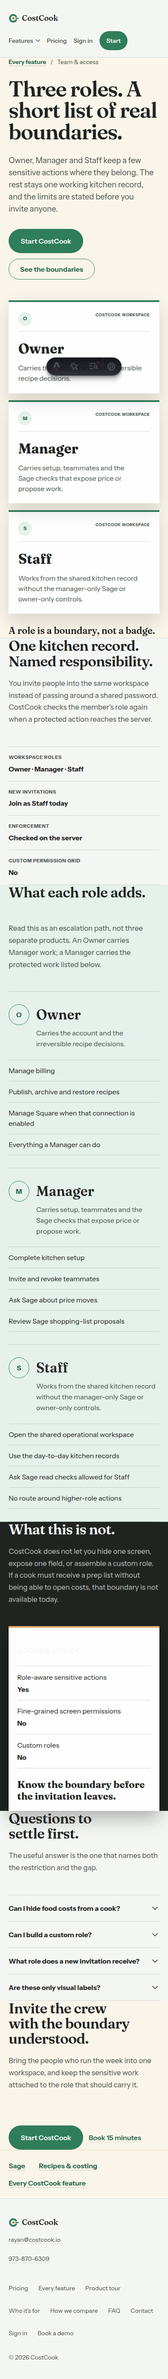
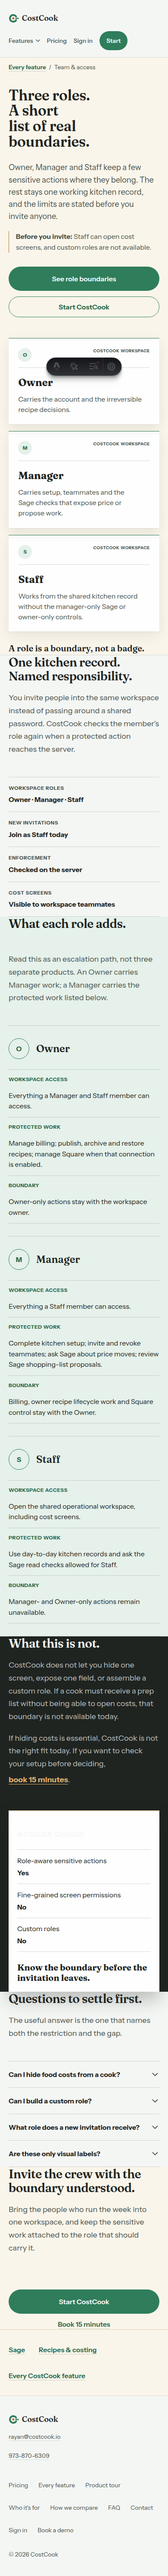
fix(features): harden team access guide

Changed region(s): [[0.0, 0.0, 1.0, 0.9953], [0.8615, 0.0311, 0.9231, 0.0622]]

diff --git a/src/styles/global.css b/src/styles/global.css
@@ -92,6 +92,13 @@
 		font-synthesis-style: none;
 	}
 
+	a,
+	button,
+	summary {
+		touch-action: manipulation;
+		-webkit-tap-highlight-color: color-mix(in srgb, var(--color-green) 22%, transparent);
+	}
+
 	::selection {
 		background: var(--color-softgreen);
 		color: var(--color-ink);

diff --git a/docs/stories/team-and-access.story.md b/docs/stories/team-and-access.story.md
@@ -55,11 +55,11 @@
 
 | § | Section | Beats | Value turn |
 |---|---------|-------|------------|
-| 1 | Hero and role ticket | 1–2 | role labels → named boundaries |
+| 1 | Hero, constraint and role ticket | 1–2, 5 | role labels → named boundaries and limits before conversion |
 | 2 | Why boundaries matter | 3–4 | one shared login → accountable teammates |
-| 3 | Owner, Manager, Staff | 6–8 | vague hierarchy → exact sensitive jobs |
+| 3 | Owner, Manager, Staff | 6–8 | vague hierarchy → the same three facts for every role |
 | 4 | Shared workspace | 7–9 | fear of separation → one operational record |
-| 5 | What this is not | 5, 10–11 | assumption → explicit limit |
+| 5 | What this is not | 5, 10–11 | assumption → explicit limit and an honest fit check |
 | 6 | Questions | 5, 10 | objection → plain answer |
 | 7 | Closing action | 12 | uncertainty → informed invitation |
 
@@ -70,10 +70,10 @@
 
 ### Step 6 — Dialogue
 
-- Hero: “three roles” as a label → three roles with a finite contract.
-- Roles: hierarchy → practical actions.
+- Hero: “three roles” as a label → three roles with a finite contract, including cost visibility before either conversion path.
+- Roles: hierarchy → workspace access, protected work and boundary in the same order for every role.
 - Shared workspace: restriction → collaboration with accountability.
-- Limits: implied permission grid → a clear no and the current invitation behavior.
+- Limits: implied permission grid → a clear no, the current invitation behavior and a candid next step when that makes the product a poor fit.
 - Close: hesitant invitation → informed next step.
 
 ### Step 7 — Sorkin
@@ -82,6 +82,7 @@
 - **Obstacle:** Role names are easy to overread.
 - **Headline:** Three roles. A short list of real boundaries.
 - **Subhead:** Owner, Manager and Staff keep a few sensitive actions where they belong. The rest stays one working kitchen record, and the limits are stated before you invite anyone.
+- **Constraint before conversion:** Staff can open cost screens, and custom roles are not available.
 
 ### Step 8 — Cool Talk
 
@@ -96,10 +97,10 @@
 ### Step 10 — Connecting Your Scenes
 
 - **POV:** Second person throughout.
-- **Hand-offs:** invite → identify the sensitive work → read each role → see what stays shared → name what is not configurable → settle objections → invite with the boundary understood.
+- **Hand-offs:** invite → see the cost-visibility constraint → inspect the role boundaries → see what stays shared → compare the same three facts for each role → name what is not configurable → check product fit or ask about the setup → settle objections → invite with the boundary understood.
 
 ### Step 11 — Revise and Finish
 
-- **Word count before → after:** Target under 760 words after removing repeated role definitions.
+- **Word count before → after:** 502 → 479 rendered words; the final page remains under the 760-word target.
 - **Claims removed:** full tiered access, custom roles, per-screen permissions, cost hiding, self-service manager assignment, audit-history guarantees.
 - **Final Image:** Invite the crew knowing which work stays with you, which work a manager can carry, and which controls are not there yet.
